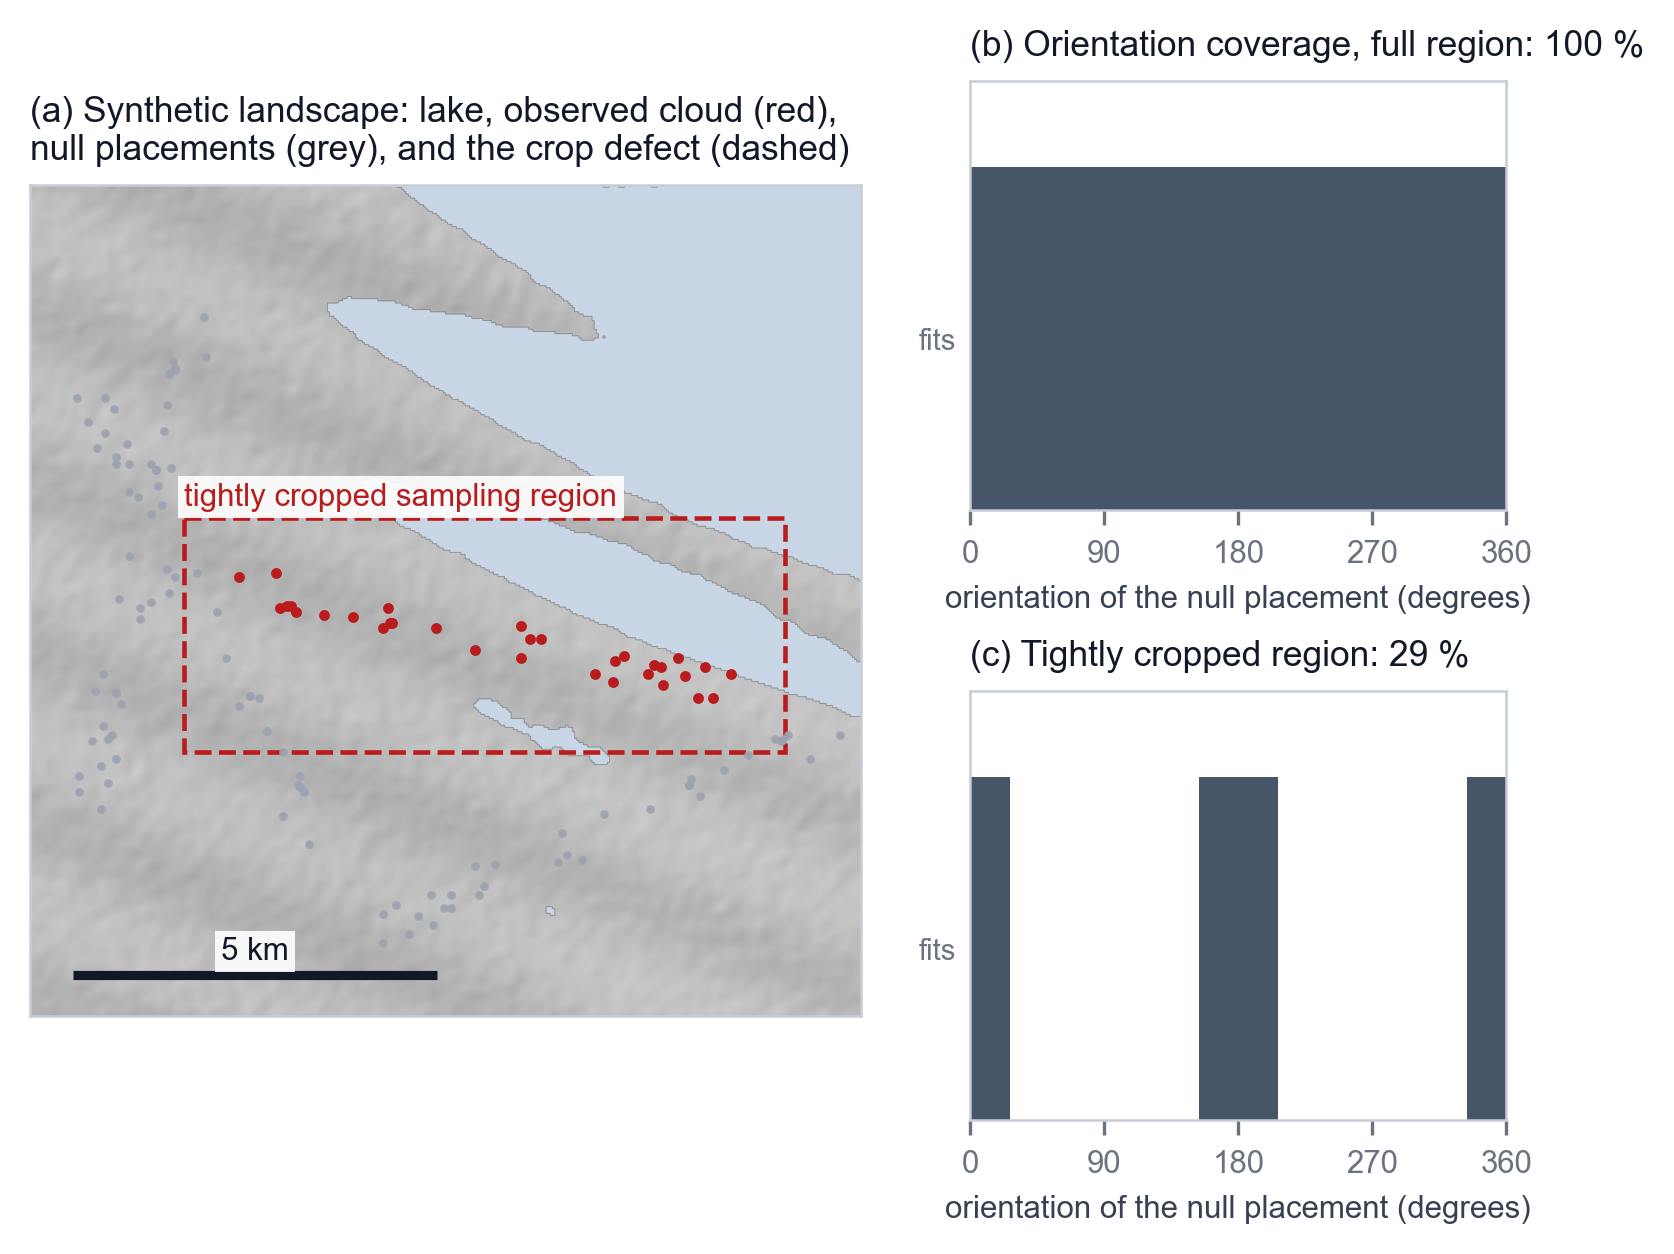
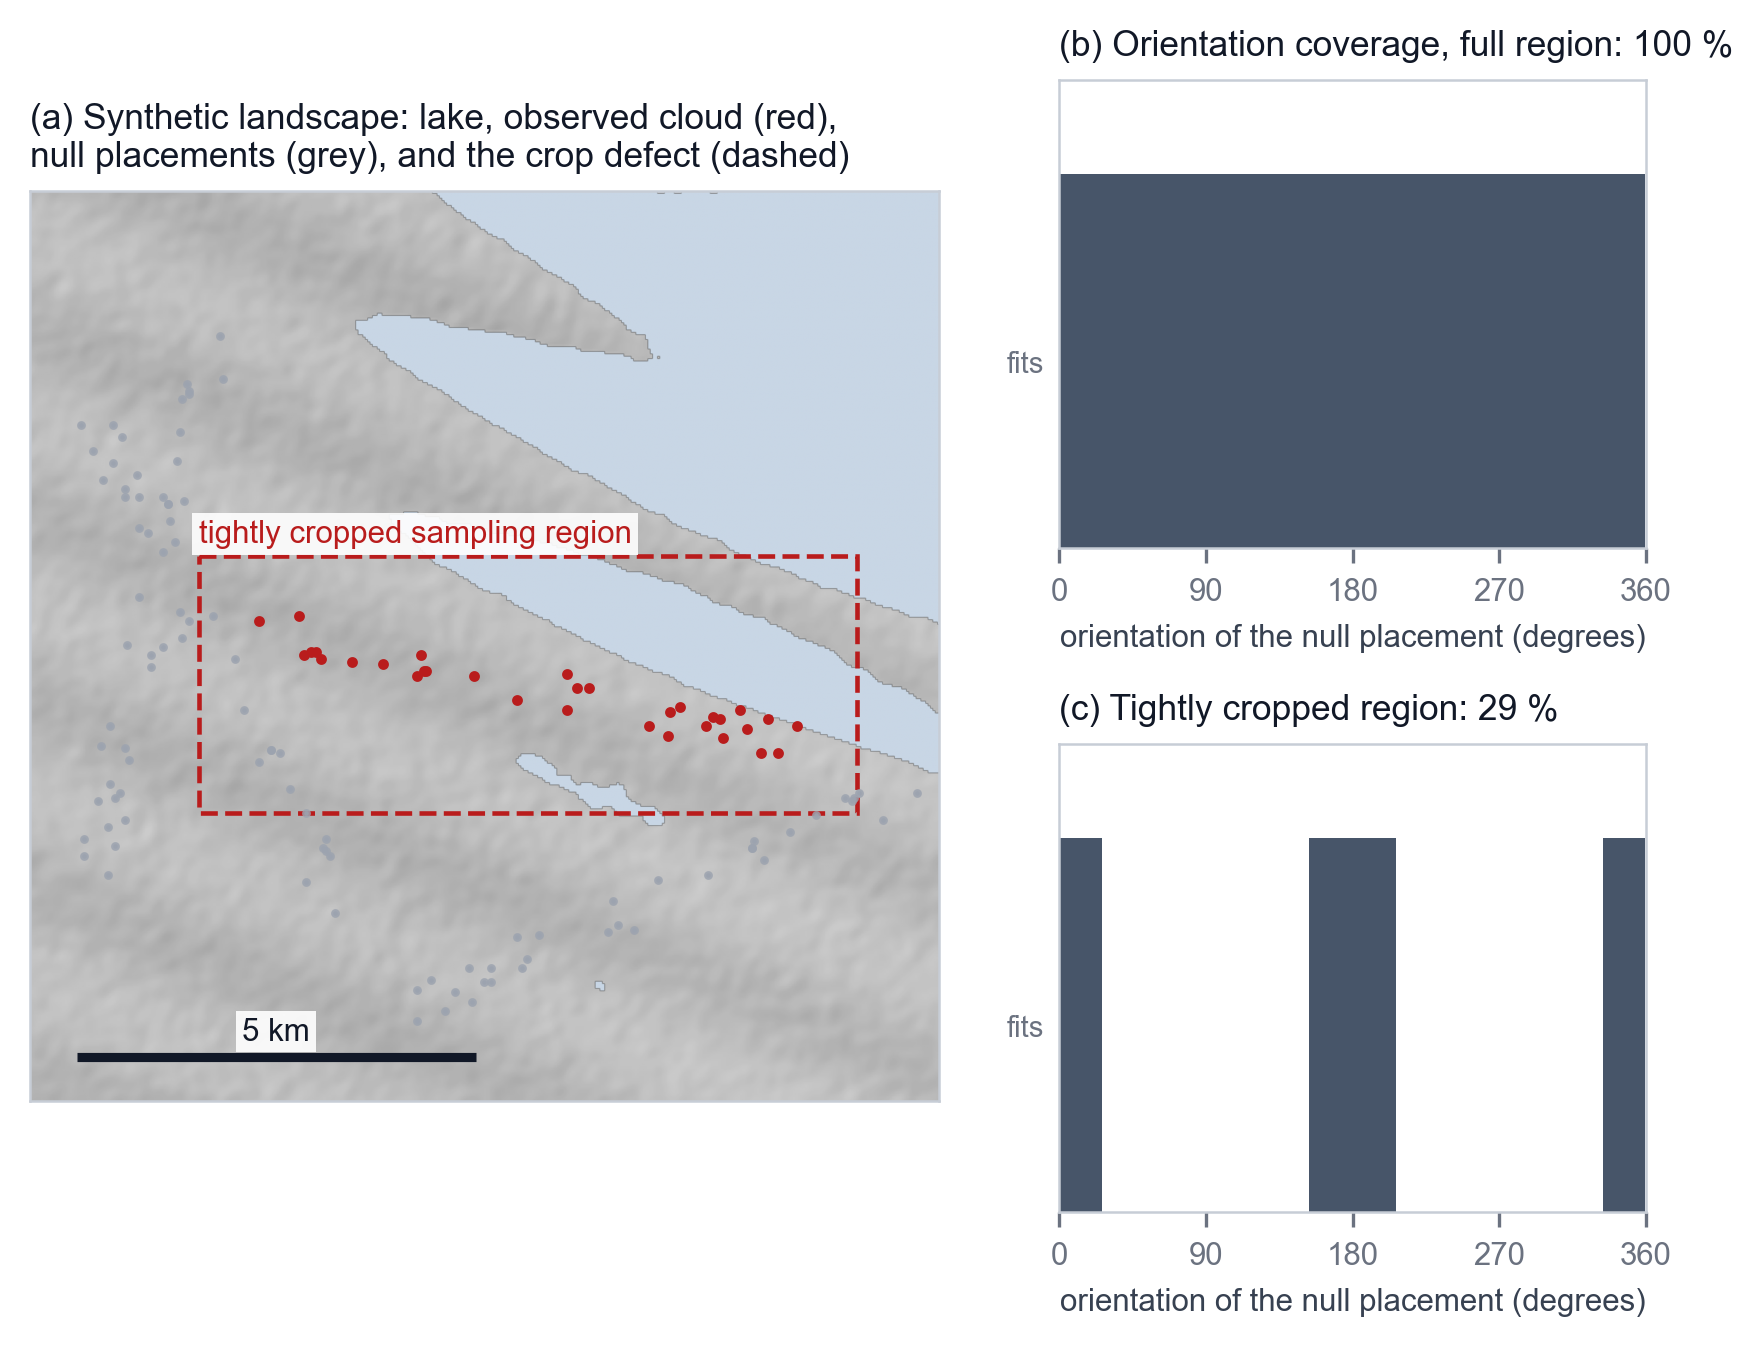
Figura del laboratorio: lienzo mayor para conservar 300 ppp tras el recorte

diff --git a/scripts/p03_figuras.py b/scripts/p03_figuras.py
@@ -192,7 +192,7 @@ def figura2():
     cob_full = cobertura_orientaciones(dem, dc, dr)
     cob_tight = cobertura_orientaciones(dem, dc, dr, reg)
 
-    fig = plt.figure(figsize=(6.35, 4.5))
+    fig = plt.figure(figsize=(6.95, 4.9))
     gs = fig.add_gridspec(2, 2, width_ratios=[1.55, 1], hspace=0.42, wspace=0.16)
 
     # (a) el paisaje
